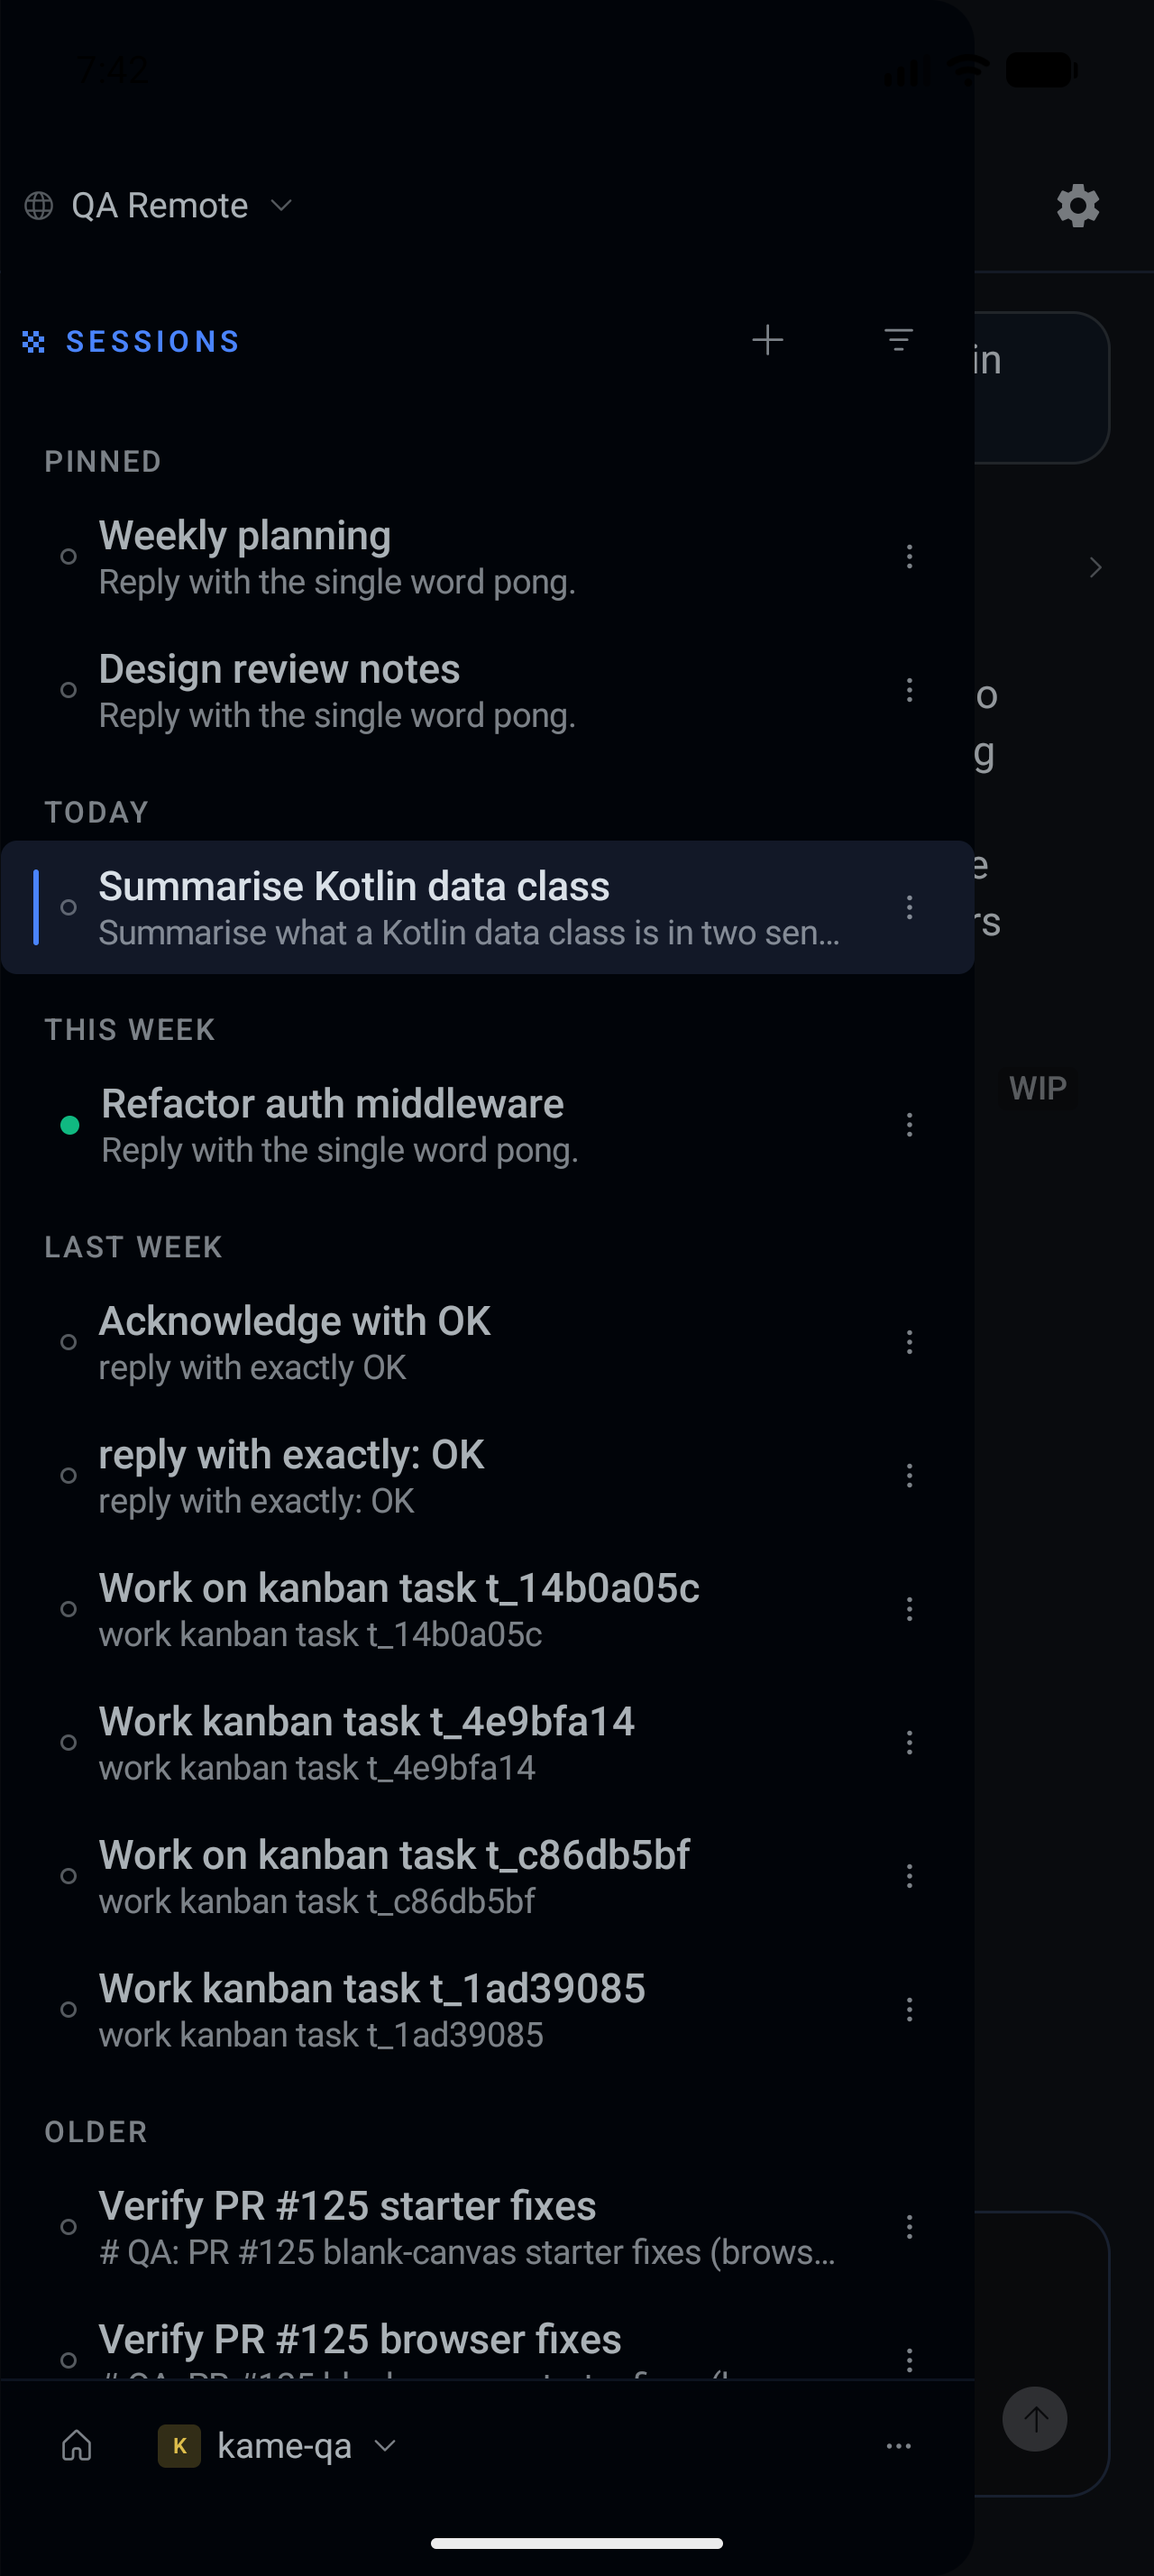
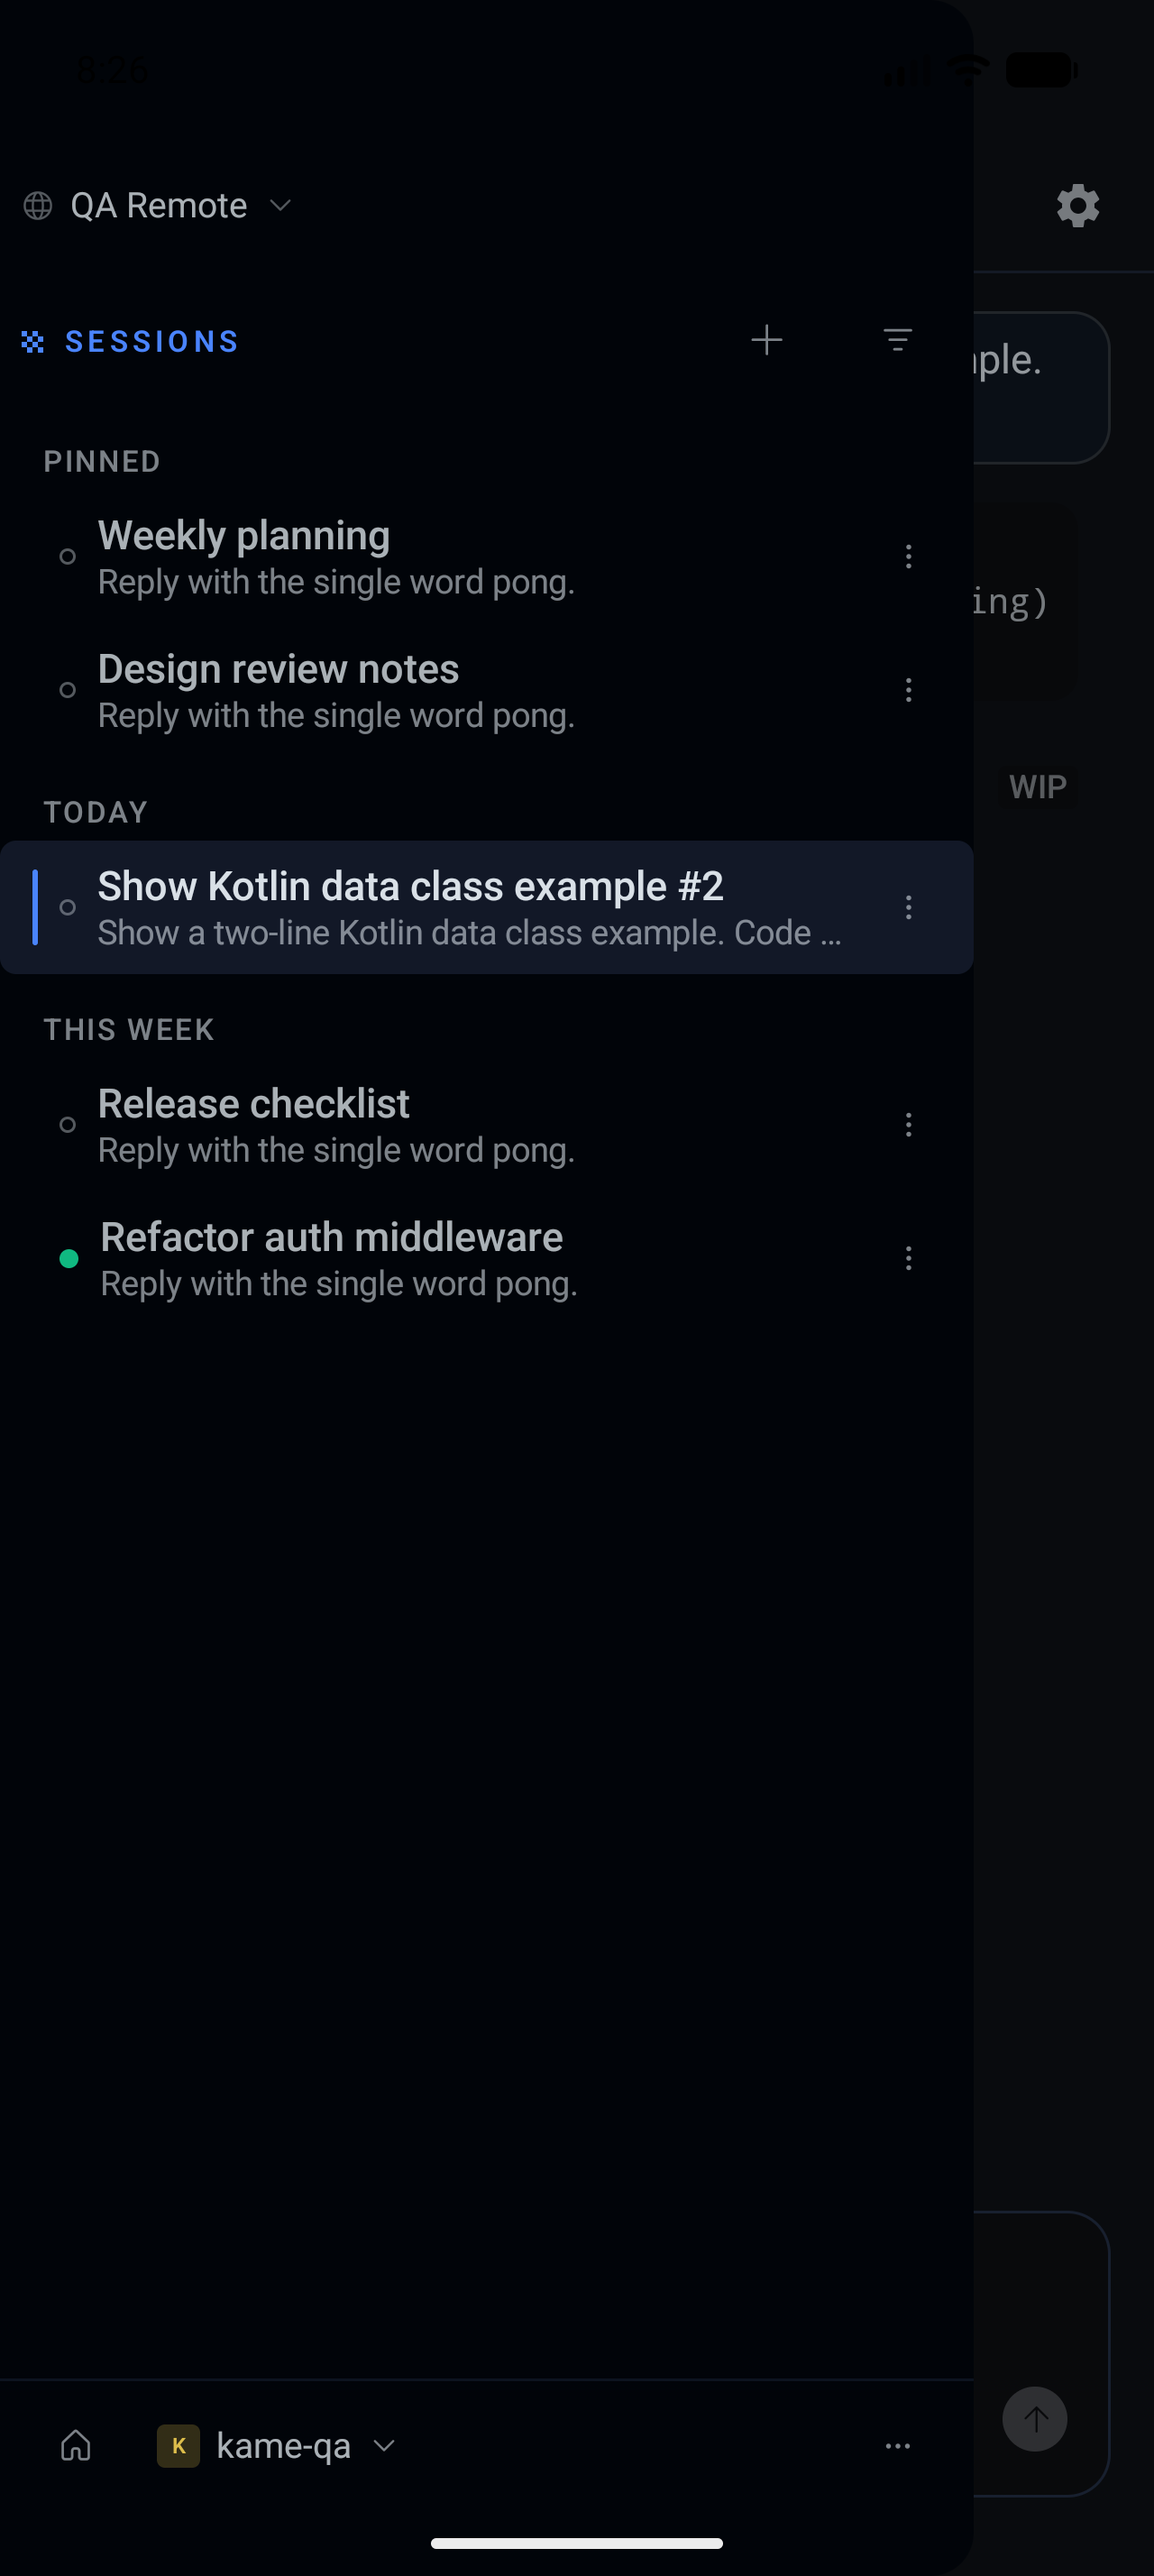
docs(media): recapture the sessions frames against a clean kame-qa list
The first pass caught months of QA leftovers under This week, Last week and
Older — rows named after pull requests, Kanban task ids and relay smoke tests,
plus a long tail of untitled `New session` rows. None of that is what the
README should lead with.

Archived, not deleted: 132 rows left the list through their own row menu and
are still reachable under `Filters ▸ Archived`, each offering `Unarchive`. The
list backfills lazily from the Gateway, so the sweep was repeated until two
consecutive full passes archived nothing and a forced refetch still showed only
the synthetic set. `Release checklist` was caught by the sweep and put back;
`Refactor auth middleware`'s unread dot, consumed by an earlier capture, was
restored with `Mark as unread` so the frame shows the affordance it is there to
show. Both are recorded in CAPTURE.md.

The frames now show Pinned `Weekly planning` and `Design review notes`, Today's
active demo session, and This week's `Release checklist` and `Refactor auth
middleware`. Same focus gate before the shutter, both frames looked at, no
Gateway address in either.

Claude-Session: https://claude.ai/code/session_01JsG9ZNzeXuArC1vPktQ5Fn

diff --git a/docs/media/CAPTURE.md b/docs/media/CAPTURE.md
@@ -13,7 +13,7 @@ produced, so a later pass can reproduce or replace it.
 | Package | `com.hermesagent.mobile.debug`, versionName `0.2.0-phase2` |
 | Device | `emulator-5554`, AVD `Pixel_10_Pro`, 1280×2856 @480dpi, Android 17 |
 | Backend | A Remote Gateway row labelled `QA Remote`, Hermes 0.21.0, profile `kame-qa` |
-| Captured | 2026-09-04 |
+| Captured | 2026-09-04; `sessions-light.png` and `sessions-dark.png` recaptured 2026-09-05 |
 
 Screenshots were taken with:
 
@@ -59,8 +59,8 @@ pillarboxes the frame in black.
 
 | File | Size | Shows | Real host name visible? |
 |---|---|---|---|
-| `sessions-light.png` | 288 KB | The sessions drawer over a transcript: `PINNED` / `TODAY` / `THIS WEEK` / `LAST WEEK` / `OLDER` calendar sections, the active row highlighted, one unread dot, the profile chip at the foot | No |
-| `sessions-dark.png` | 289 KB | The same drawer in dark mode | No |
+| `sessions-light.png` | 152 KB | The sessions drawer over a transcript: the `PINNED`, `TODAY` and `THIS WEEK` calendar sections, the active row highlighted, one unread dot, the profile chip at the foot | No |
+| `sessions-dark.png` | 150 KB | The same drawer in dark mode | No |
 | `chat-light.png` | 174 KB | One turn in a session: the sent prompt, the reply with inline code spans, the per-message action row with its `WIP` markers, the collapsed reasoning row, and the composer with its model chip | No |
 | `chat-dark.png` | 174 KB | The same transcript in dark mode | No |
 | `composer-completions-dark.png` | 230 KB | The slash-command completion popup open over the composer after typing `/`: `/new`, `/reset`, `/clear`, `/redraw`, `/history` with their descriptions | No |
@@ -70,6 +70,43 @@ pillarboxes the frame in black.
 The keyboard was dismissed before `composer-completions-dark.png` so the frame
 is the app's own surface rather than half Gboard; the completion popup survives
 losing the input method.
+
+### What the two sessions frames show, and why the list is short
+
+The `kame-qa` profile had accumulated months of QA runs — rows named after
+pull requests, Kanban task ids and relay smoke tests, plus a long tail of
+untitled `New session` rows. None of it is what a README should lead with, so
+before the recapture every row outside the profile's synthetic set was
+**archived** from its own row menu. Archive, not delete: the rows are still
+there under the drawer's `Filters ▸ Archived` view and each one's menu offers
+`Unarchive`. 132 rows were archived across three sweeps; the list backfills
+lazily from the Gateway, so a sweep that ends quiet is not proof on its own and
+the sweeps were repeated until two consecutive full passes archived nothing and
+a forced refetch still showed only the five rows below.
+
+What remains, and what the two frames show:
+
+| Section | Row |
+|---|---|
+| `PINNED` | `Weekly planning`, `Design review notes` |
+| `TODAY` | `Show Kotlin data class example #2` — active, and the session the demo clips use |
+| `THIS WEEK` | `Release checklist`, `Refactor auth middleware` — the latter carrying the unread dot |
+
+Two states in those frames were set deliberately rather than found. `Release
+checklist` was archived by the sweep and then restored with the row's own
+`Unarchive`, because it is part of the synthetic set. `Refactor auth
+middleware`'s unread dot had been consumed by an earlier capture opening that
+session, and was put back with `Mark as unread` so the frame shows the unread
+affordance it is there to show. Both are ordinary app actions on synthetic
+sessions, and both are reversible from the same menus.
+
+One consequence worth naming: `chat-light.png` and `chat-dark.png` were taken
+before that cleanup, from a session called `Summarise Kotlin data class` that
+the sweep archived. The frames themselves are clean and were kept — they show a
+prose reply with inline code spans and a collapsed reasoning row, which the
+remaining demo session does not — but their title will not be found in the
+sessions frames. Recapturing them from `Show Kotlin data class example #2` would
+make the set title-consistent at the cost of a plainer chat frame.
 
 ## Demos
 
